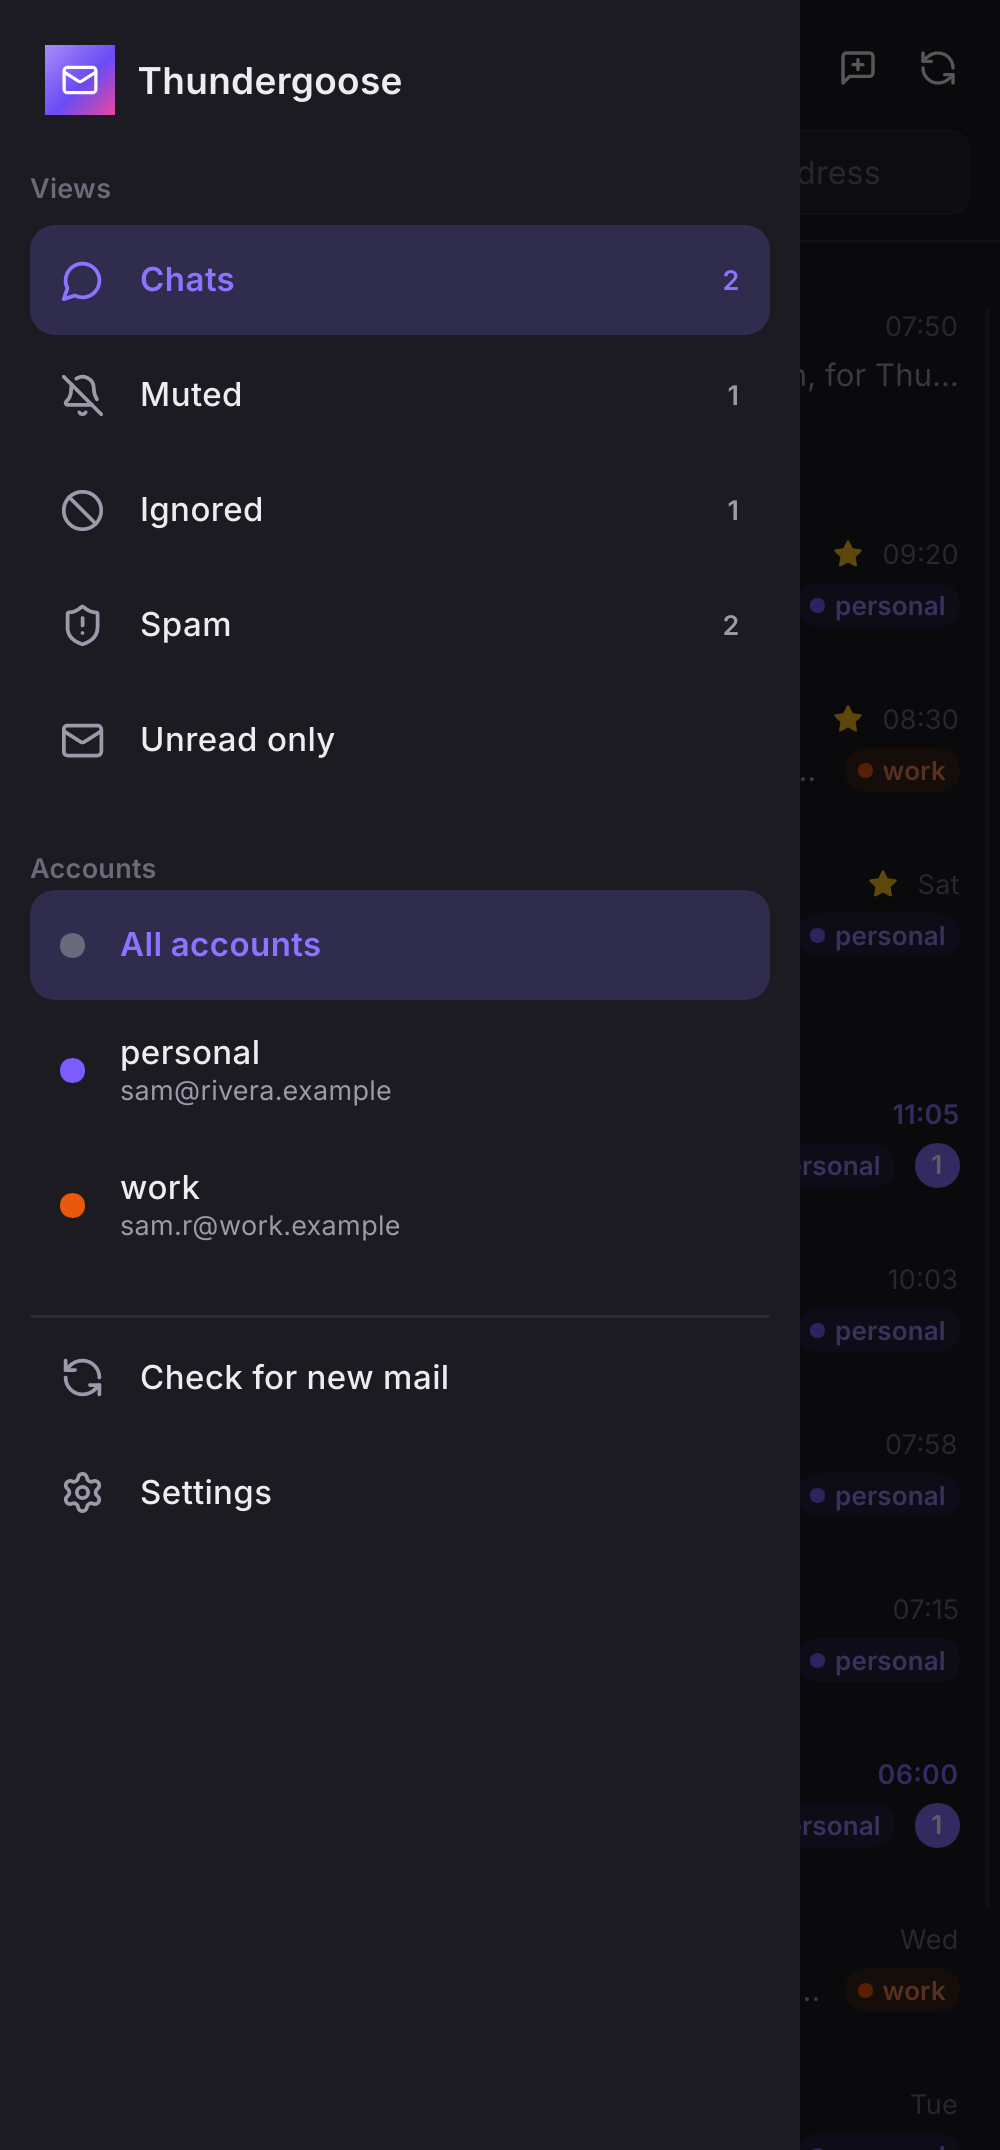
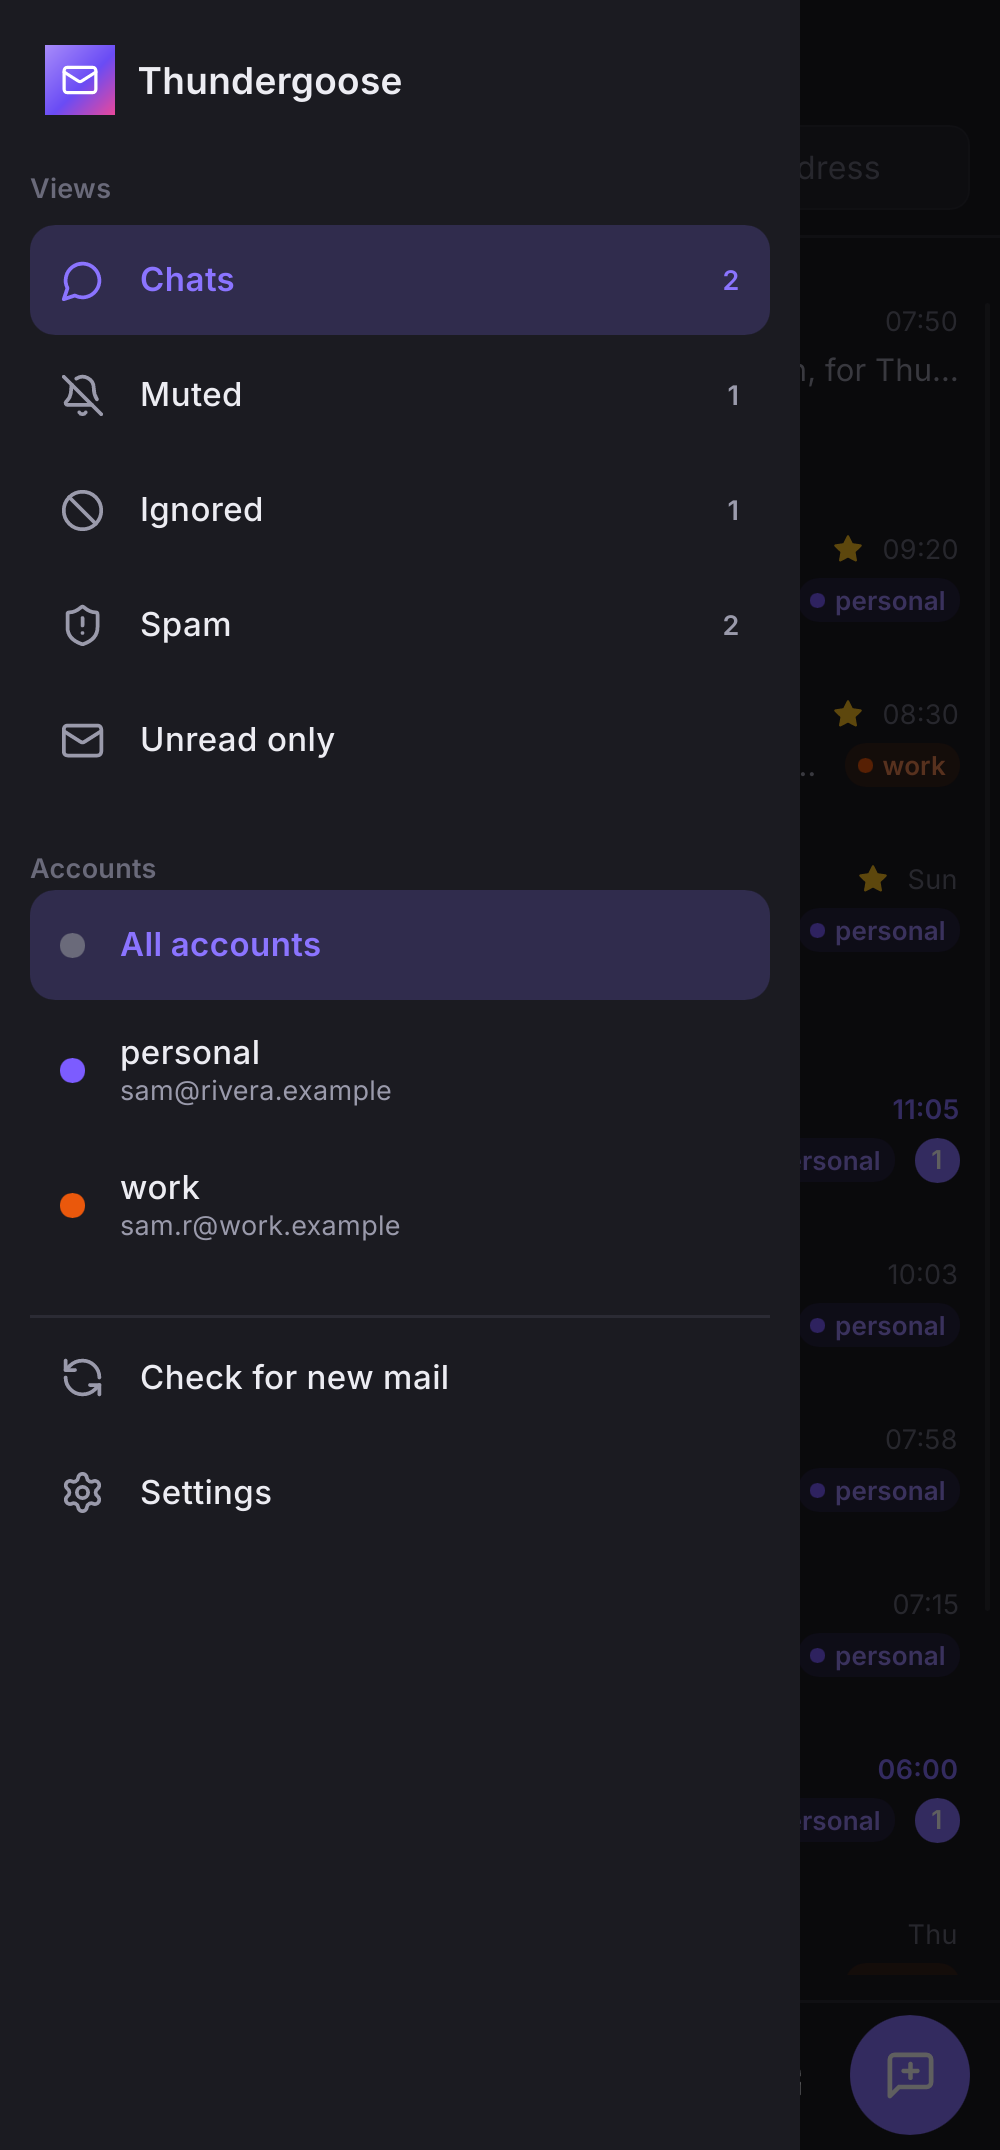
Android: trust Android's certificate authorities (and always Mozilla's); phone forms without overflow; bottom bar and edge swipes; keep clear of system bars and keyboard

diff --git a/src/imapc.rs b/src/imapc.rs
@@ -36,9 +36,38 @@ impl From<CredError> for ConnError {
     }
 }
 
+/// TLS for IMAP: Mozilla's root certificates, plus the system's (corporate and self-made
+/// authorities). The bundled list matters on Android, whose certificates live where the usual
+/// lookup doesn't search, which left the store empty ("UnknownIssuer").
 pub fn tls() -> &'static RustlsConnector {
     static C: OnceLock<RustlsConnector> = OnceLock::new();
-    C.get_or_init(|| RustlsConnector::new_with_native_certs().unwrap_or_else(|_| RustlsConnector::new_with_webpki_roots_certs()))
+    C.get_or_init(|| {
+        let mut config = rustls_connector::RustlsConnectorConfig::new_with_webpki_roots_certs();
+        config.add_parsable_certificates(system_certificates());
+        config.connector_with_no_client_auth()
+    })
+}
+
+#[cfg(not(target_os = "android"))]
+fn system_certificates() -> Vec<rustls::pki_types::CertificateDer<'static>> {
+    rustls_native_certs::load_native_certs().unwrap_or_default()
+}
+
+/// Android's own authorities and those the user added, one PEM file each.
+#[cfg(target_os = "android")]
+fn system_certificates() -> Vec<rustls::pki_types::CertificateDer<'static>> {
+    use rustls::pki_types::pem::PemObject;
+    use rustls::pki_types::CertificateDer;
+    let mut certs = Vec::new();
+    for dir in ["/system/etc/security/cacerts", "/apex/com.android.conscrypt/cacerts", "/data/misc/user/0/cacerts-added"] {
+        let Ok(entries) = std::fs::read_dir(dir) else { continue };
+        for e in entries.flatten() {
+            if let Ok(iter) = CertificateDer::pem_file_iter(e.path()) {
+                certs.extend(iter.flatten());
+            }
+        }
+    }
+    certs
 }
 
 fn tcp(host: &str, port: u16) -> Result<TcpStream, ConnError> {

diff --git a/src/shots.rs b/src/shots.rs
@@ -206,6 +206,20 @@ pub fn take(out: &Path) -> Result<(), PlatformError> {
         open("orders@trailhead-outfitters.example");
         settle();
         save(&window, &out.join("phone-html.png"));
+        // Settings with the account form at its server step (checks that nothing overflows).
+        let app = ui.global::<App>();
+        app.set_settings_open(true);
+        app.set_add_open(true);
+        app.set_add_step(1);
+        app.set_add_email("sam@rivera.example".into());
+        app.set_add_imap_host("imap.rivera.example".into());
+        app.set_add_imap_port("993".into());
+        app.set_add_smtp_host("smtp.rivera.example".into());
+        app.set_add_smtp_port("465".into());
+        settle();
+        save(&window, &out.join("phone-settings.png"));
+        app.set_add_open(false);
+        app.set_settings_open(false);
     }
 
     // First start on a computer with Thunderbird (not used in the README).

diff --git a/README.md b/README.md
@@ -136,9 +136,10 @@ you mark as spam. They never notify.</td>
 </table>
 
 On a phone (or any window narrower than 700 px) Thundergoose shows one thing at a time, like
-Telegram: the list of people, or the conversation with one of them, with a back button. The
-views (Chats, Muted, Ignored, Spam, Unread only), your accounts and Settings slide in from the
-left, like in K-9 Mail. HTML mail is laid out at the phone's width, or zoomed out when it has a
+Telegram: the list of people, or the conversation with one of them, with a back button (or
+swipe in from the left edge). The views (Chats, Muted, Ignored, Spam, Unread only), your
+accounts and Settings slide in from the left, like in K-9 Mail; the menu and a new-conversation
+button sit at the bottom, within reach of your thumb. HTML mail is laid out at the phone's width, or zoomed out when it has a
 fixed width.
 
 <p align="center"><img src="docs/settings-light.png" alt="Settings: accounts, notifications, appearance" width="70%"></p>
